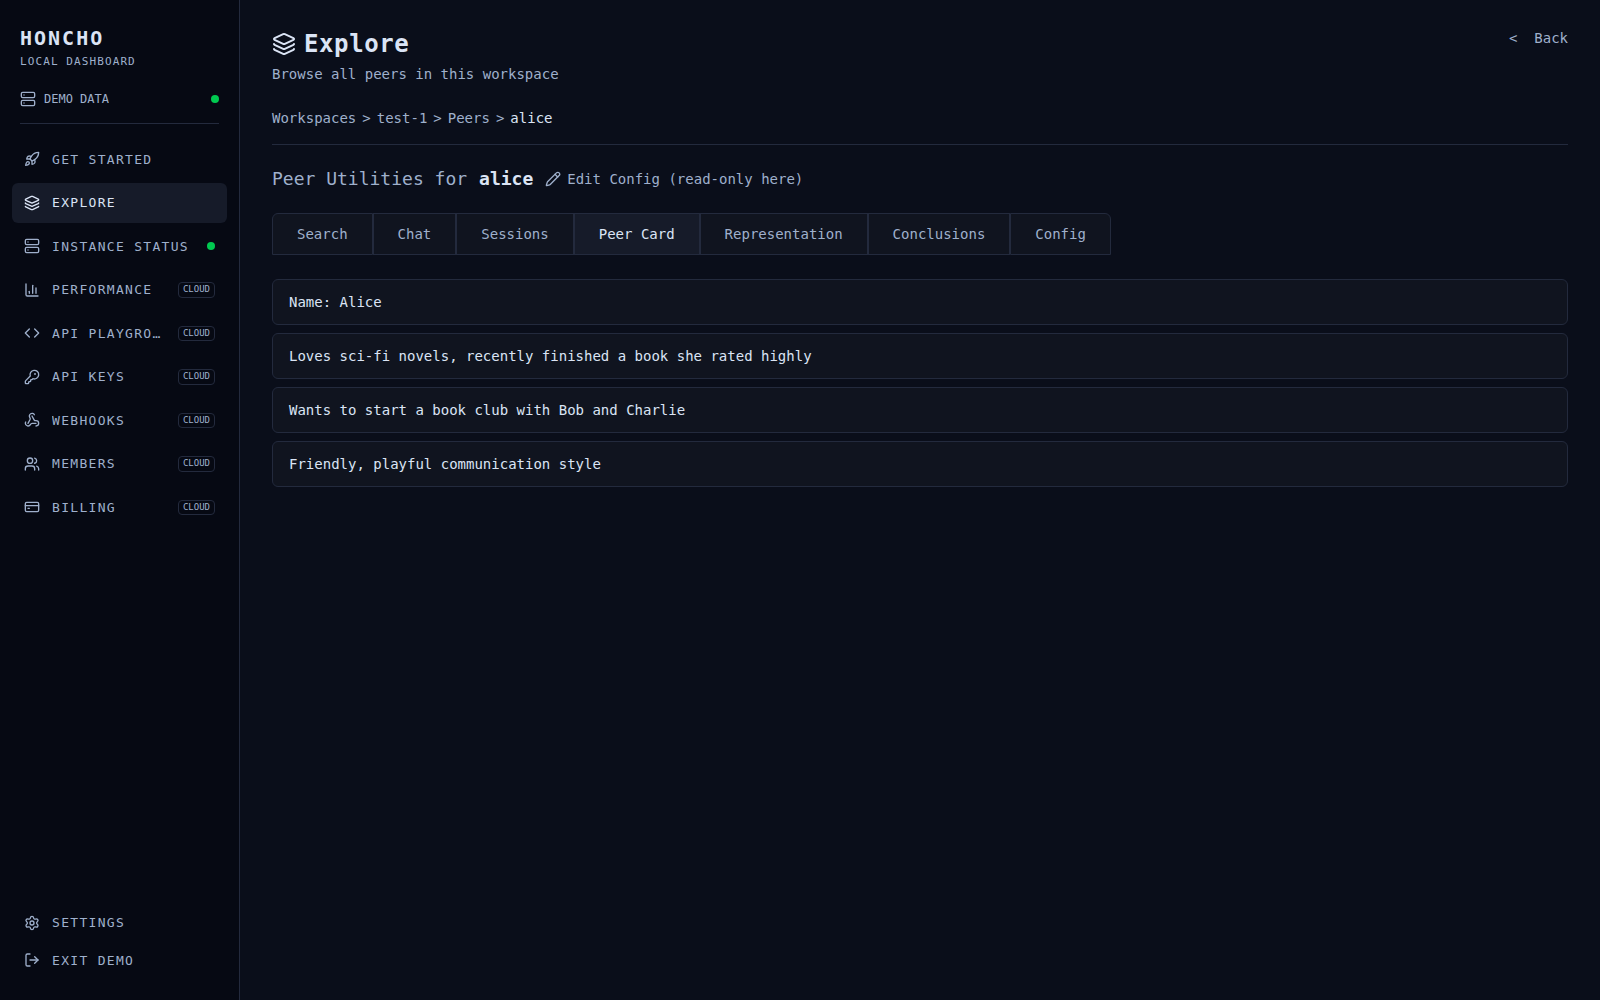
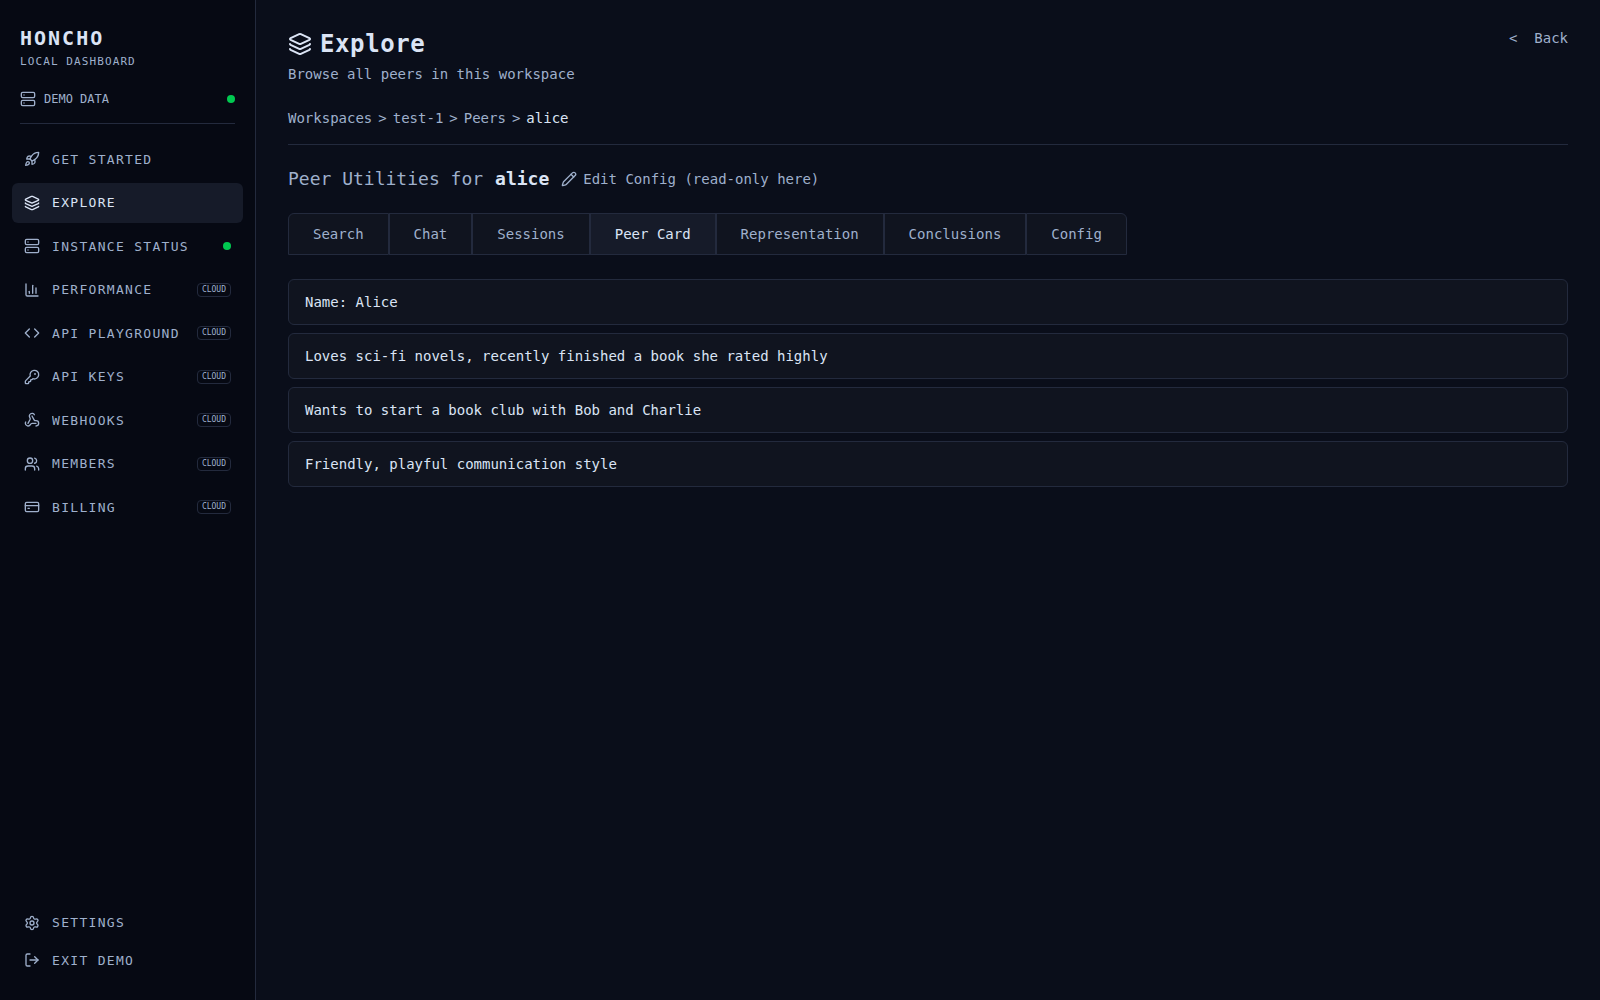
Fix-back round: deriver status row, stable screenshot baselines, sidebar width, {} JSON cells, preview proxy
- Status: add Deriver Machine row (state from queue/status reachability),
  keep DERIVER QUEUE BY WORKSPACE panel; demo fixtures it Active
- Screenshots: freeze caret/animations/scrollbars before capture and do a
  full page reload before each view (interactions re-run after reload) —
  hash-only SPA navigation + prior captures flipped rounded-corner AA
  between runs; three consecutive runs now byte-identical (18/18)
- Sidebar: widen w-60 -> w-64 and shrink CLOUD badge so API PLAYGROUND
  and other labels render in full
- Tables: empty metadata/configuration cells render {} like the cloud
  (was None) via formatJsonCell
- Proxy bug: connection used import.meta.env.DEV, so vite preview builds
  (DEV=false) bypassed the /honcho-api proxy and died on CORS. useProxy
  now comes from shouldUseProxy(import.meta.env.MODE): development and
  preview builds use the proxy, production builds never do. New
  build:preview script (vite build --mode preview); README proxy section
  corrected; 6 new unit tests cover the preview case

diff --git a/src/pages/StatusPage.tsx b/src/pages/StatusPage.tsx
@@ -4,10 +4,12 @@ import { useAsyncData } from '../lib/useAsyncData'
 import { PageHeader } from '../components/ui'
 
 // Instance Status, mirroring the cloud page of the same name ("Monitor your
-// system status"): green checks for the API machine, the Honcho version,
-// and — the locally available extra — the deriver queue per workspace.
-// The cloud page's "Deriver Machine" row has no direct local API signal;
-// queue work-units are the closest verified local equivalent.
+// system status"): green checks for the API machine and the deriver
+// machine, the Honcho version, and — the locally available extra — the
+// deriver queue per workspace. There is no dedicated deriver health
+// endpoint locally, so the Deriver Machine row is derived from the
+// verified queue/status endpoint: if it responds for a workspace, the
+// deriver side of the instance is answering, so the row reads Active.
 export function StatusPage() {
   const { api, health, refreshHealth } = useConnection()
 
@@ -44,6 +46,11 @@ export function StatusPage() {
           </span>
         </div>
 
+        <DeriverMachineRow
+          firstWorkspaceId={workspaces.data?.items[0]?.id ?? null}
+          workspacesLoaded={workspaces.data !== null}
+        />
+
         {version.data ? (
           <div className="flex items-center gap-3">
             <Server className="h-5 w-5 text-blue-400" />
@@ -71,6 +78,48 @@ export function StatusPage() {
           </div>
         </section>
       ) : null}
+    </div>
+  )
+}
+
+// The cloud status page's "Deriver Machine" row. Locally the honest signal
+// is the queue/status endpoint (it reports the deriver's work units): a
+// successful response for the first workspace means Active; an error means
+// Unreachable; while the probe is in flight the row reads Checking.
+function DeriverMachineRow({
+  firstWorkspaceId,
+  workspacesLoaded,
+}: {
+  firstWorkspaceId: string | null
+  workspacesLoaded: boolean
+}) {
+  const { api } = useConnection()
+  const { data, error, loading } = useAsyncData(
+    async () => {
+      if (!api || !firstWorkspaceId) return null
+      return api.getQueueStatus(firstWorkspaceId)
+    },
+    [api, firstWorkspaceId],
+  )
+
+  let label = 'Checking…'
+  let labelClass = 'font-semibold text-fog'
+  let icon = <Server className="h-5 w-5 text-fog" />
+  if (data) {
+    label = 'Active'
+    labelClass = 'font-semibold text-green-500'
+    icon = <CheckCircle2 className="h-5 w-5 text-green-500" />
+  } else if (error || (workspacesLoaded && !loading && !firstWorkspaceId)) {
+    label = 'Unreachable'
+    labelClass = 'font-semibold text-red-500'
+    icon = <XCircle className="h-5 w-5 text-red-500" />
+  }
+
+  return (
+    <div className="flex items-center gap-3">
+      {icon}
+      <span className="text-mist">Deriver Machine</span>
+      <span className={labelClass}>{label}</span>
     </div>
   )
 }

diff --git a/src/api/client.ts b/src/api/client.ts
@@ -29,10 +29,14 @@ export interface HonchoClientOptions {
   baseUrl: string
   // Optional JWT / API token. Sent as `Authorization: Bearer <token>`.
   token?: string
-  // The server the Vite dev proxy forwards /honcho-api to. Only used to
+  // The server the Vite proxy forwards /honcho-api to. Only used to
   // decide whether requests for `baseUrl` can ride the proxy (see below).
   proxyTarget?: string
-  // True in `vite dev` / `vite preview`, where the /honcho-api proxy exists.
+  // True when this bundle is served by a Vite server that provides the
+  // /honcho-api proxy — the dev server or a preview build. Decide it with
+  // shouldUseProxy(import.meta.env.MODE), not import.meta.env.DEV: DEV is
+  // false for the production bundle that `vite preview` serves, which used
+  // to make preview builds bypass the proxy and die on CORS.
   useProxy?: boolean
   fetchFn?: typeof fetch
 }
@@ -40,13 +44,28 @@ export interface HonchoClientOptions {
 export const PROXY_PREFIX = '/honcho-api'
 export const DEFAULT_PROXY_TARGET = 'http://localhost:8000'
 
+// Which Vite mode this bundle was built/served for decides whether the
+// /honcho-api proxy may be used:
+// - "development" (`npm run dev`): the dev server proxies /honcho-api.
+// - "preview" (`npm run build:preview`, served by `npm run preview`): the
+//   preview server also proxies /honcho-api (preview.proxy in
+//   vite.config.ts), so the flag is baked into that build on purpose.
+// - "production" (`npm run build`): NO proxy — a real deployment is served
+//   as static files with no /honcho-api endpoint, so requests must go
+//   directly to the configured server (same-origin or reverse-proxied
+//   deployments have no CORS problem to sidestep).
+export function shouldUseProxy(mode: string): boolean {
+  return mode === 'development' || mode === 'preview'
+}
+
 function stripTrailingSlash(url: string): string {
   return url.replace(/\/+$/, '')
 }
 
 // Decides where requests actually go.
-// - In dev, when the configured server IS the proxy target, requests go to
-//   the same-origin proxy prefix instead, sidestepping CORS entirely.
+// - When the bundle may use the proxy (dev / preview builds — see
+//   shouldUseProxy) and the configured server IS the proxy target, requests
+//   go to the same-origin proxy prefix instead, sidestepping CORS entirely.
 // - Everywhere else the configured base URL is used directly (production
 //   deployments are expected to serve the dashboard same-origin with the
 //   API or behind a reverse proxy — see README).

diff --git a/src/__test__/client.test.ts b/src/__test__/client.test.ts
@@ -1,5 +1,5 @@
 import { describe, expect, it, vi } from 'vitest'
-import { HonchoClient, HonchoError, resolveRequestBase } from '../api/client'
+import { HonchoClient, HonchoError, resolveRequestBase, shouldUseProxy } from '../api/client'
 
 // Tests for the Honcho API client: URL building (including the dev-proxy
 // rule), the auth header, error handling, and request shapes for the
@@ -50,6 +50,46 @@ describe('resolveRequestBase', () => {
       baseUrl: 'http://localhost:8000',
       proxyTarget: 'http://localhost:8000',
       useProxy: false,
+    })
+    expect(base).toBe('http://localhost:8000')
+  })
+})
+
+describe('shouldUseProxy', () => {
+  it('is true for the dev server (mode "development")', () => {
+    expect(shouldUseProxy('development')).toBe(true)
+  })
+
+  // Regression test for the preview bug: a preview build is a production
+  // bundle (import.meta.env.DEV === false) served by `vite preview`, which
+  // DOES provide the /honcho-api proxy. Basing useProxy on DEV made
+  // preview builds call the Honcho server directly and fail on CORS.
+  it('is true for a preview-served build (mode "preview")', () => {
+    expect(shouldUseProxy('preview')).toBe(true)
+  })
+
+  it('is false for a production build (mode "production")', () => {
+    expect(shouldUseProxy('production')).toBe(false)
+  })
+
+  it('is false for any other mode', () => {
+    expect(shouldUseProxy('test')).toBe(false)
+  })
+
+  it('routes a preview-served build through the proxy when the server is the target', () => {
+    const base = resolveRequestBase({
+      baseUrl: 'http://localhost:8000',
+      proxyTarget: 'http://localhost:8000',
+      useProxy: shouldUseProxy('preview'),
+    })
+    expect(base).toBe('/honcho-api')
+  })
+
+  it('keeps a production build off the proxy even when the server is the target', () => {
+    const base = resolveRequestBase({
+      baseUrl: 'http://localhost:8000',
+      proxyTarget: 'http://localhost:8000',
+      useProxy: shouldUseProxy('production'),
     })
     expect(base).toBe('http://localhost:8000')
   })

diff --git a/src/components/Sidebar.tsx b/src/components/Sidebar.tsx
@@ -81,7 +81,7 @@ export function Sidebar({
   onDisconnect: () => void
 }) {
   return (
-    <aside className="flex w-60 shrink-0 flex-col border-r border-line bg-ink-deep">
+    <aside className="flex w-64 shrink-0 flex-col border-r border-line bg-ink-deep">
       <div className="px-5 pb-2 pt-6">
         {/* Our own text wordmark — not the cloud logo asset. */}
         <div className="text-xl font-bold tracking-widest text-mist">HONCHO</div>
@@ -115,7 +115,7 @@ export function Sidebar({
                 <span className={`ml-auto h-2 w-2 rounded-full ${healthDotClass(health)}`} />
               ) : null}
               {item.cloudOnly ? (
-                <span className="ml-auto rounded border border-line px-1 text-[9px] tracking-normal text-fog">
+                <span className="ml-auto shrink-0 rounded border border-line px-1 text-[8px] tracking-normal text-fog">
                   CLOUD
                 </span>
               ) : null}

diff --git a/src/state/connection.tsx b/src/state/connection.tsx
@@ -9,7 +9,7 @@ import {
   type ReactNode,
 } from 'react'
 import type { HonchoApi } from '../api/honchoApi'
-import { HonchoClient } from '../api/client'
+import { HonchoClient, shouldUseProxy } from '../api/client'
 import { DemoHonchoApi } from '../api/demoClient'
 
 // Connection settings are persisted in localStorage so a refresh keeps the
@@ -73,7 +73,9 @@ function createApi(saved: SavedConnection): HonchoApi {
     baseUrl: saved.baseUrl,
     token: saved.token || undefined,
     proxyTarget: import.meta.env.VITE_HONCHO_TARGET || undefined,
-    useProxy: import.meta.env.DEV,
+    // MODE, not DEV: a preview build is a production bundle (DEV=false)
+    // served by `vite preview`, which does provide the /honcho-api proxy.
+    useProxy: shouldUseProxy(import.meta.env.MODE),
   })
 }
 

diff --git a/src/lib/format.ts b/src/lib/format.ts
@@ -17,10 +17,10 @@ export function formatDateTime(isoString: string): string {
   return dateTimeFormatter.format(date)
 }
 
-// Metadata / configuration cells in the cloud tables show "None" for empty
+// Metadata / configuration cells in the cloud tables show "{}" for empty
 // objects and the raw JSON otherwise.
 export function formatJsonCell(value: Record<string, unknown>): string {
-  if (!value || Object.keys(value).length === 0) return 'None'
+  if (!value || Object.keys(value).length === 0) return '{}'
   return JSON.stringify(value)
 }
 

diff --git a/README.md b/README.md
@@ -61,22 +61,32 @@ Honcho's official dashboard screenshots, plus a small `hermes` workspace.
 
 The Honcho API does not reliably emit CORS headers for browser apps, so
 calling it directly from a page served on another origin can be blocked by
-the browser. This project handles that in development:
+the browser. This project handles that locally with Vite's proxy
+(`/honcho-api` → `VITE_HONCHO_TARGET`, default `http://localhost:8000`),
+used **when the server you connect to is the proxy target**. Copy
+`.env.example` to `.env` and set `VITE_HONCHO_TARGET` if your server lives
+elsewhere, then connect using that same URL. Whether a given build may use
+the proxy is decided by its Vite mode (`shouldUseProxy` in
+`src/api/client.ts`):
 
-- In `npm run dev` (and `npm run preview`), requests to the configured
-  server go through Vite's proxy (`/honcho-api` → `VITE_HONCHO_TARGET`,
-  default `http://localhost:8000`) **when the server you connect to is the
-  proxy target**. Copy `.env.example` to `.env` and set `VITE_HONCHO_TARGET`
-  if your server lives elsewhere, then connect using that same URL.
+- **Dev** (`npm run dev`, mode `development`): the dev server proxies
+  `/honcho-api`, and the client uses it.
+- **Preview** (`npm run build:preview && npm run preview`, mode
+  `preview`): `vite preview` also proxies `/honcho-api` (see
+  `preview.proxy` in `vite.config.ts`), and the preview build has the
+  proxy flag baked in, so it uses it too. Build with `build:preview` —
+  serving a plain production build under `vite preview` will *not* use
+  the proxy and the browser will block the direct calls (CORS).
 - Connecting to any other URL uses a direct fetch, which works only if that
   server allows CORS from the dashboard's origin.
 
-**Production:** serve the built dashboard (`npm run build` → `dist/`) from
-the **same origin** as the Honcho API, or put both behind a reverse proxy
-that forwards `/honcho-api`-style traffic — same-origin requests have no
-CORS problem at all. Don't expose a no-auth Honcho server to the public
-internet just to make CORS go away; put the dashboard on your LAN/Tailscale
-like the server itself.
+**Production:** `npm run build` (mode `production`) never uses the proxy —
+a static deployment has no `/honcho-api` endpoint. Serve the built
+dashboard (`dist/`) from the **same origin** as the Honcho API, or put
+both behind a reverse proxy — same-origin requests have no CORS problem
+at all. Don't expose a no-auth Honcho server to the public internet just
+to make CORS go away; put the dashboard on your LAN/Tailscale like the
+server itself.
 
 ## Endpoints used (Honcho v3 API)
 
@@ -110,6 +120,7 @@ plastic-labs/honcho (main branch):
 npm run dev          # dev server with the /honcho-api proxy
 npm test             # vitest: API client unit tests (mocked fetch)
 npm run build        # type-check + production build into dist/
+npm run build:preview && npm run preview  # local preview build (proxy on)
 npm run screenshots  # see below
 ```
 
